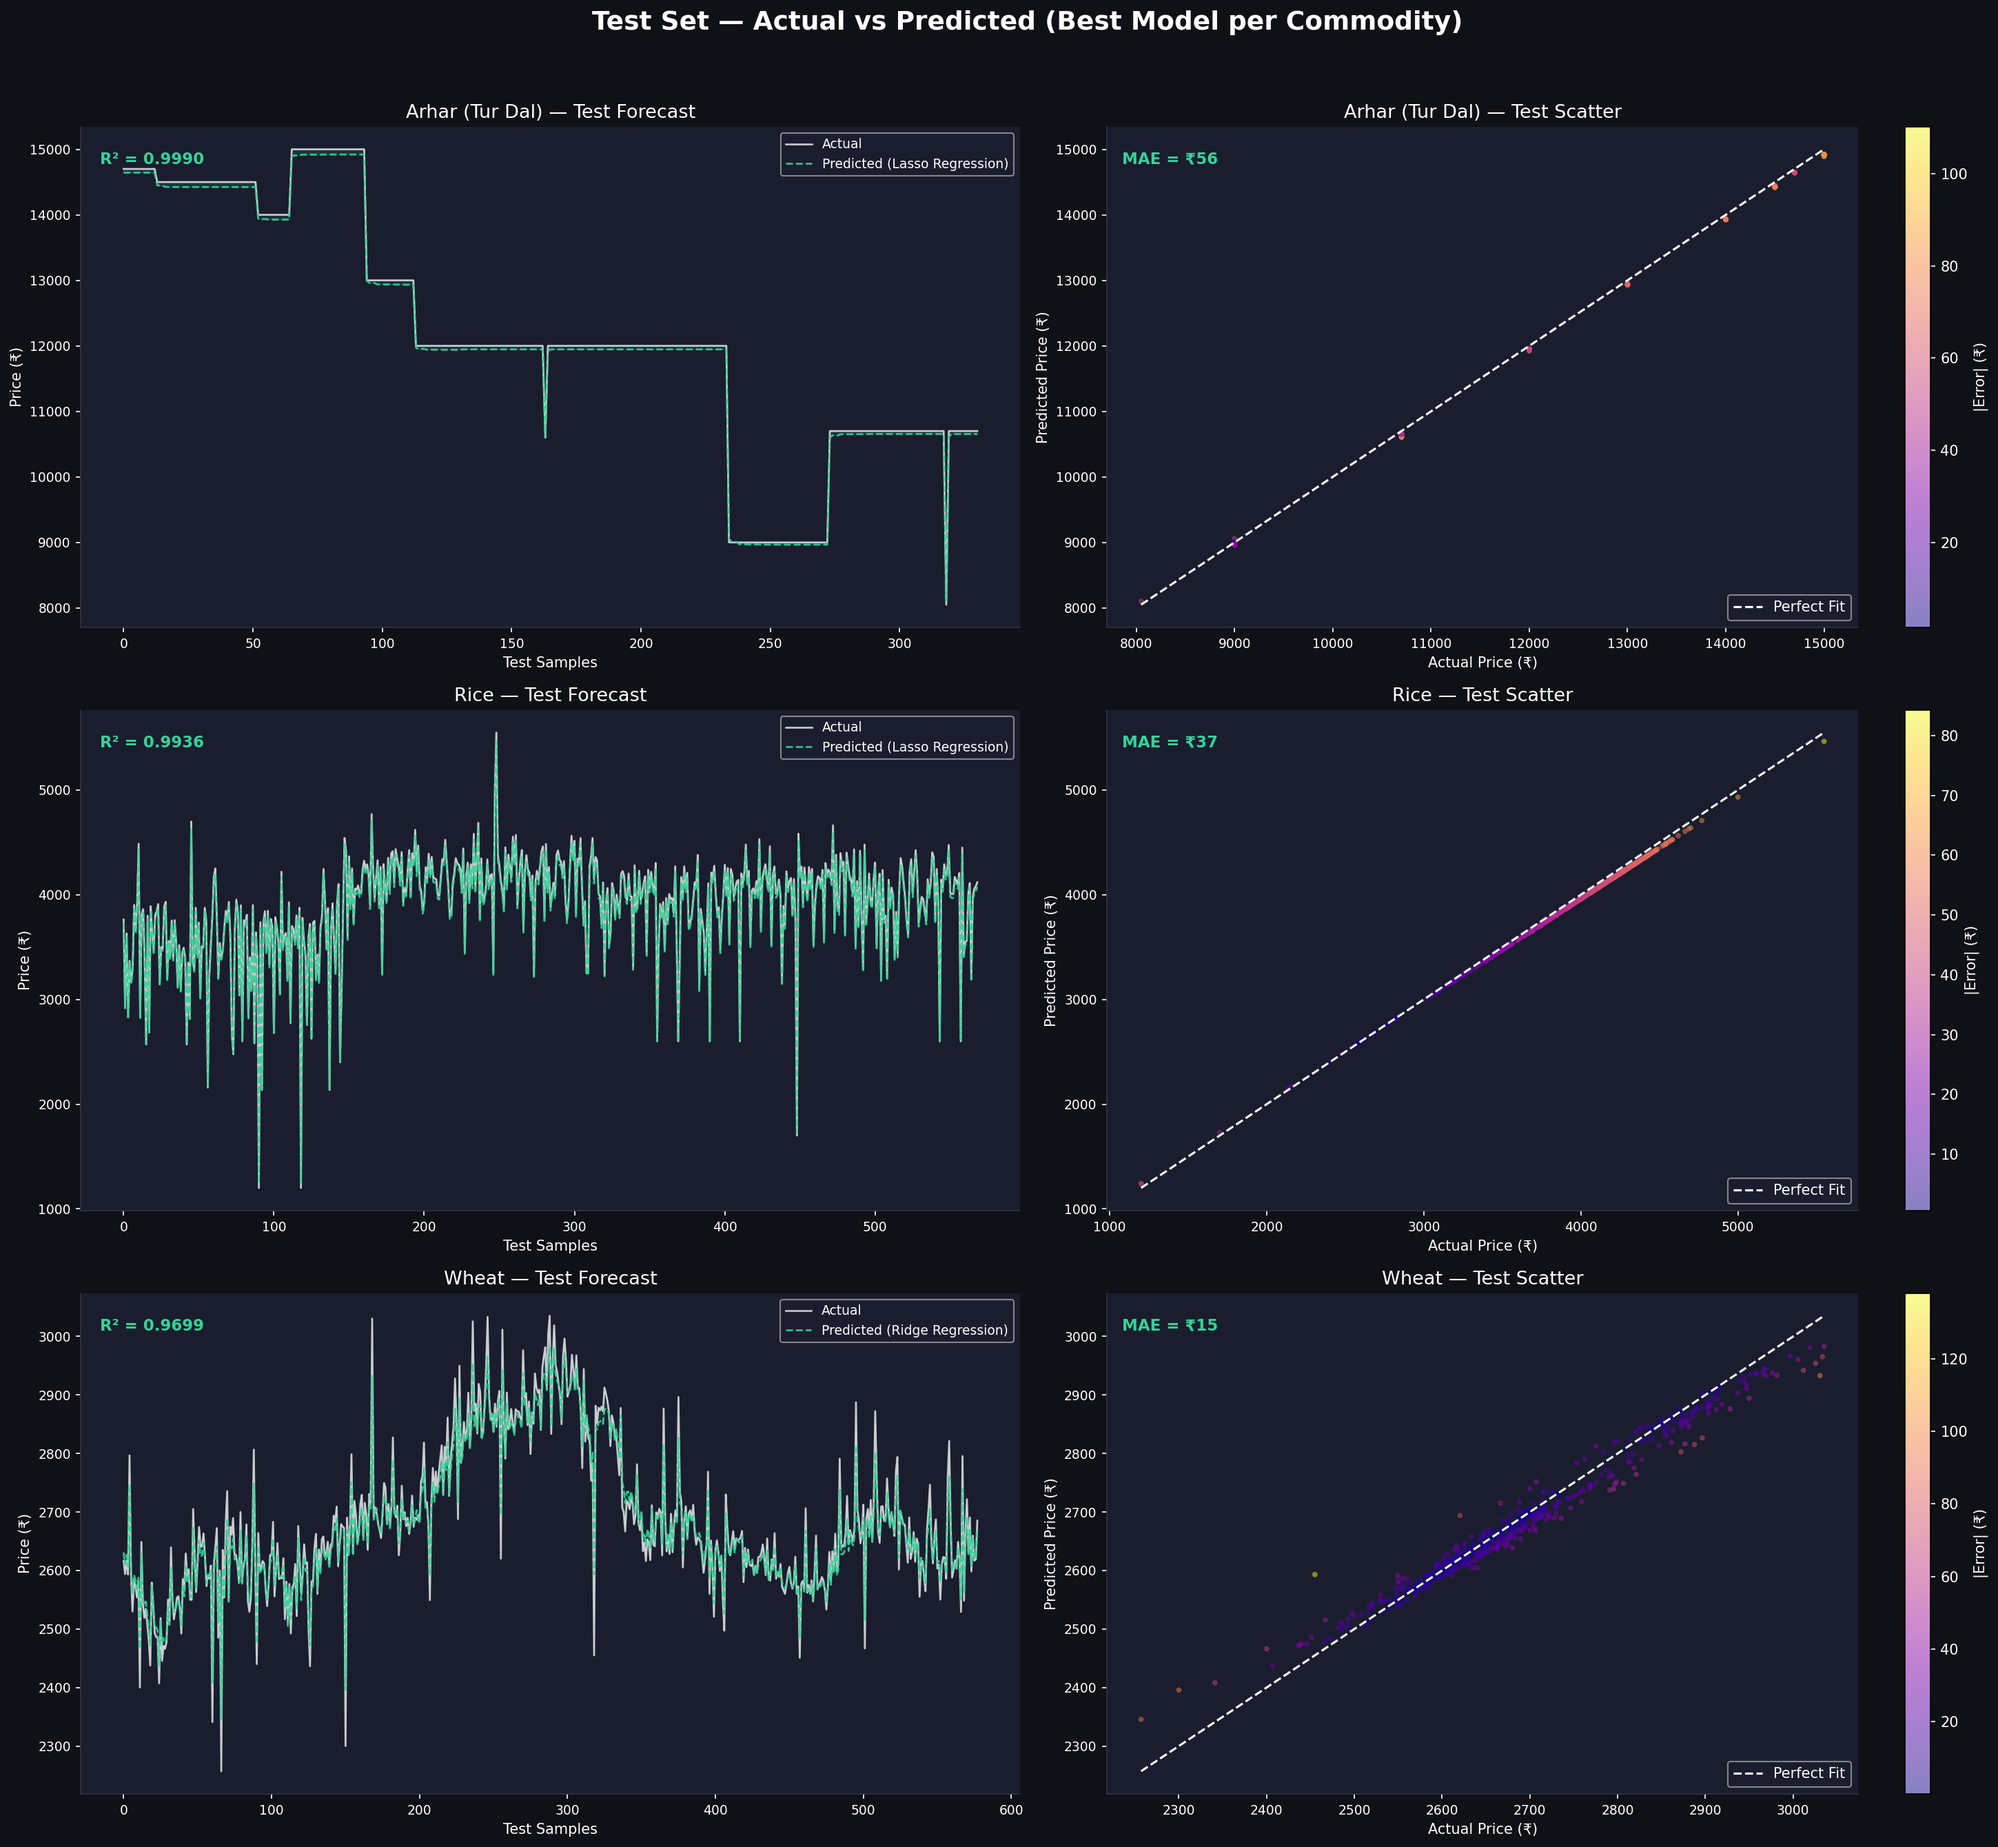
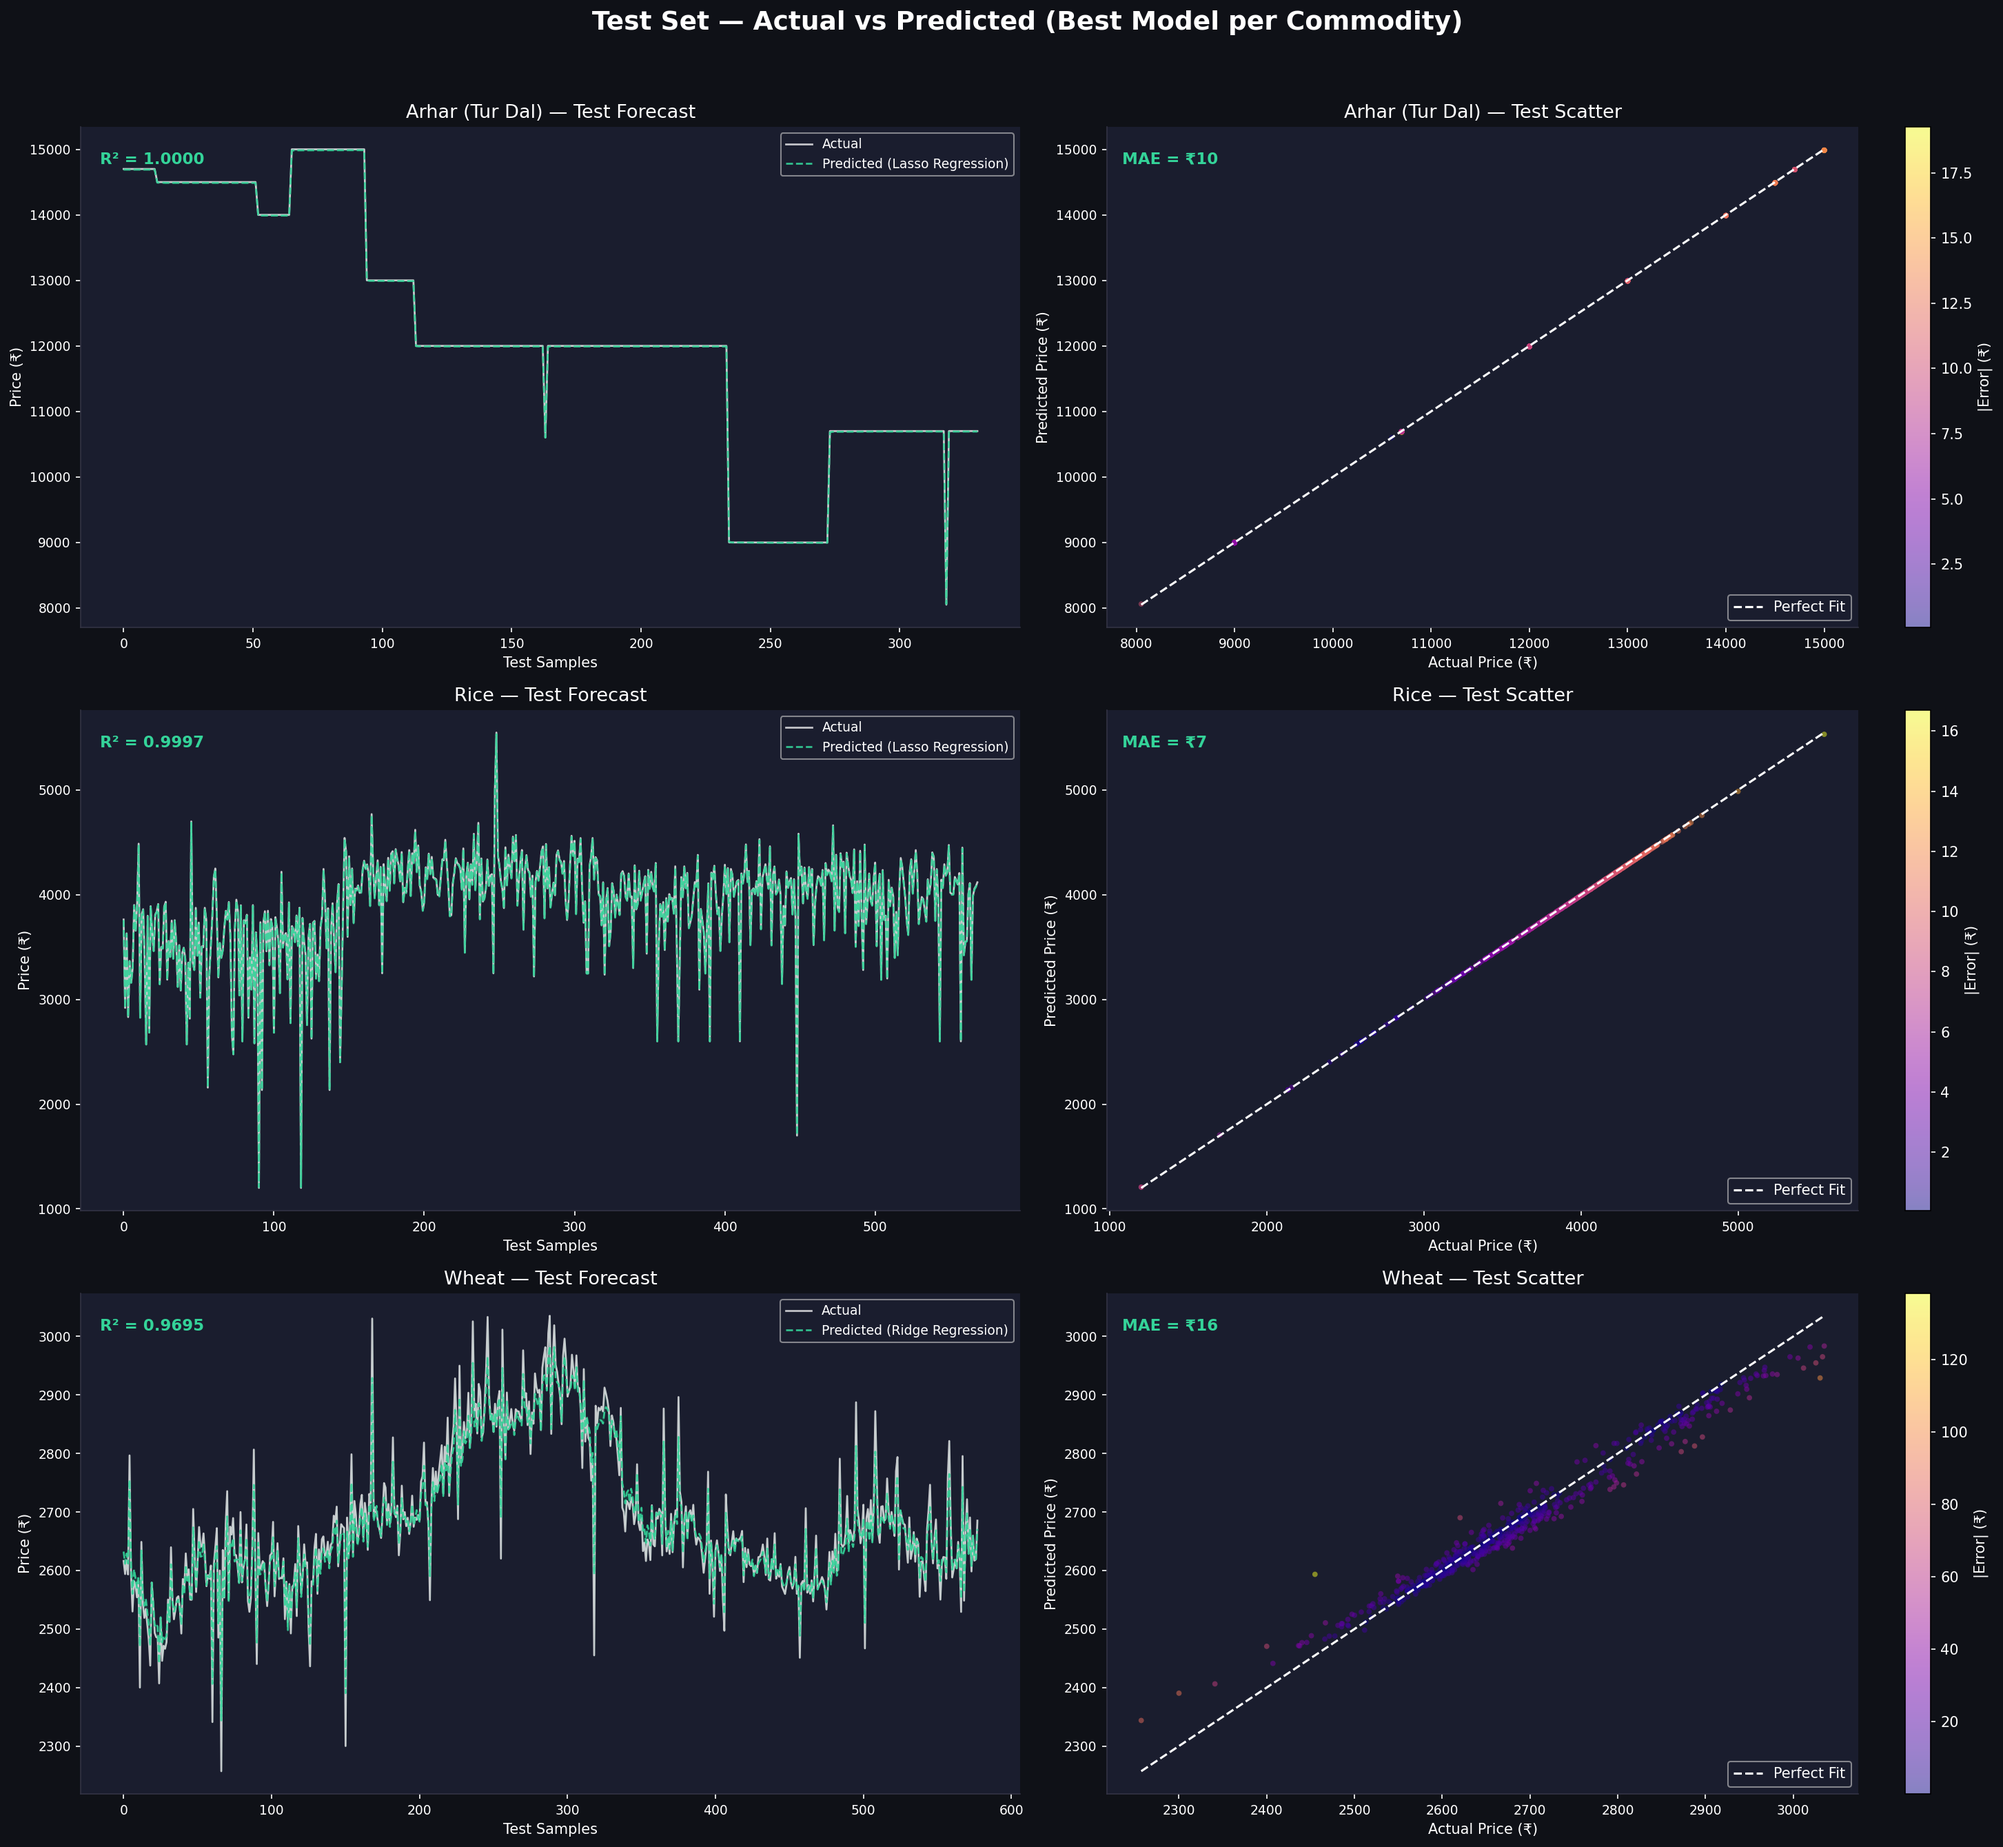
something

diff --git a/ml_model/Cereal_ml_v4.py b/ml_model/Cereal_ml_v4.py
@@ -82,13 +82,12 @@ NUMERIC_FEATURES_WANTED = [
     # ── Price lags
     'price_lag_1', 'price_lag_3', 'price_lag_7', 'price_lag_14', 'price_lag_30',
     # ── Rolling price stats
-    'price_rolling_median_7', 'price_rolling_mean_14', 'price_rolling_mean_30',
+     'price_rolling_mean_14', 'price_rolling_mean_30',
     # ── Price volatility
     'price_volatility_7', 'price_volatility_14', 'price_volatility_30',
     # ── Price momentum
     'price_pct_change_3', 'price_pct_change_7', 'price_pct_change_30',
-    # ── Price regime
-    'price_vs_30d_mean',
+
 ]
 
 NUMERIC_FEATURES = [f for f in NUMERIC_FEATURES_WANTED if f in df.columns]
@@ -137,10 +136,10 @@ def build_models():
 
         # Linear models (best for cereals)
         'Ridge Regression':
-        Ridge(alpha=50),
+        Ridge(alpha=50, random_state=42),
 
         'Lasso Regression':
-        Lasso(alpha=10, max_iter=10000),
+        Lasso(alpha=2, max_iter=1000, random_state=42),
 
         'Extra Trees':             ExtraTreesRegressor(n_estimators=200, max_depth=12,
                                                        min_samples_leaf=5, random_state=42, n_jobs=-1),
@@ -166,6 +165,33 @@ def build_models():
             min_samples_leaf=30,
             l2_regularization=1.0,
             random_state=42
+        ),
+
+        'XGBoost':
+        XGBRegressor(
+            n_estimators=800,
+            learning_rate=0.02,
+            max_depth=5,
+            min_child_weight=3,
+            gamma=0.1,
+            subsample=0.8,
+            colsample_bytree=0.8,
+            reg_alpha=0.1,
+            reg_lambda=1.0,
+            random_state=42,
+            n_jobs=-1
+        ),
+
+        'Random Forest':
+        RandomForestRegressor(
+            n_estimators=600,
+            max_depth=8,
+            min_samples_split=10,
+            min_samples_leaf=5,
+            max_features='sqrt',
+            bootstrap=True,
+            random_state=42,
+            n_jobs=-1
         )
     }
 
